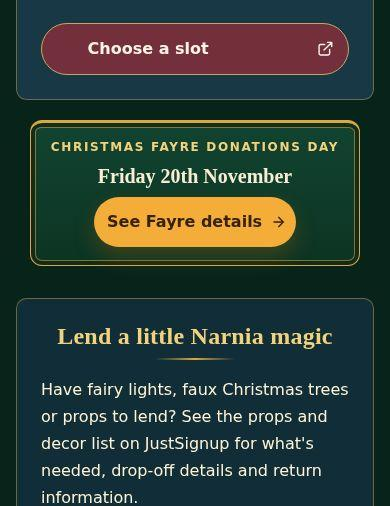
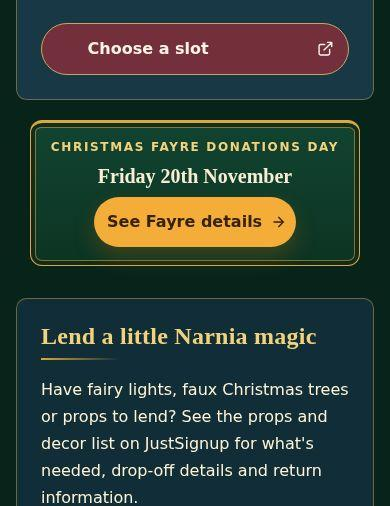
[CF-Pages-Skip] Align volunteering reading content and refresh evidence

Changed region(s): [[0.0923, 0.6225, 0.8615, 0.7115]]

diff --git a/tests/e2e/donations-notice-size.spec.ts b/tests/e2e/donations-notice-size.spec.ts
@@ -9,3 +9,8 @@ for(const route of['/events/christmas-fayre-2026/','/christmas-fayre-volunteerin
  }
  if(width>=1280&&scale===1)expect(r.width).toBeLessThan(600);
 });
+for(const width of[390,768,1024,1280,1440,1920])test(`volunteering reading headings ${width}`,async({page})=>{
+ await page.setViewportSize({width,height:1000});await page.goto('/christmas-fayre-volunteering/');
+ const align=await page.locator('.fayre-volunteer__intro,.fayre-volunteer__closing h2,.fayre-volunteer__loan h2').evaluateAll(es=>es.map(e=>getComputedStyle(e).textAlign));expect(new Set(align)).toEqual(new Set(['left']));
+ const edges=await page.locator('.narnia-landscape,.fayre-volunteer__intro,.fayre-volunteer__grid,.fayre-volunteer__closing').evaluateAll(es=>es.map(e=>{const r=e.getBoundingClientRect();return{left:r.left,right:r.right}}));for(const edge of edges.slice(1)){expect(Math.abs(edge.left-edges[0].left)).toBeLessThan(1);expect(Math.abs(edge.right-edges[0].right)).toBeLessThan(1)}
+});

diff --git a/docs/audits/donations-notice-2026-11-12/README.md b/docs/audits/donations-notice-2026-11-12/README.md
@@ -1,5 +1,9 @@
 # Compact Donations Day notice, 12 November 2026
 
-Local screenshots of the standalone notice on the volunteering page. No hosted preview generated. The short date card sizes to its content, remains centred, and wraps within phone gutters. At normal desktop text it is approximately 333px wide rather than stretching across a 1200px container. At enlarged text it grows naturally. Its button reserves scalable arrow space. The existing integrated homepage notice keeps its width and visual treatment.
+Current local screenshots, replacing earlier mixed-heading-alignment evidence. No hosted preview generated.
 
-Checked at 320, 390, 768, 1280 and 1920px with normal and 200% text, with 54 browser checks for fit, centring, button clearance and expiry, plus build, type check and 181 content tests. No content-order, wording or destination changes. The separate Fayre reading-layout PR removes the duplicate short notice from that page, leaving the full donation section directly below the event facts.
+The standalone date card sizes to its content and stays centred within the same outer page container. It is about 333px wide at normal desktop text rather than stretching across a 1200px container. At enlarged text it grows naturally and wraps inside phone gutters. Its button reserves scalable arrow space. The integrated Home notice keeps its existing width and centred treatment.
+
+Volunteering intro, props heading and questions heading now follow the left-aligned reading system. The poster and short date card remain intentionally centred. Activity cards retain left headings and body text.
+
+Checked notice fit at 320, 390, 768, 1280 and 1920px with normal and 200% text, with 54 browser checks plus six new page-edge and heading-alignment checks at 390, 768, 1024, 1280, 1440 and 1920px. Build, type check and 181 content checks passed. No wording or destinations changed. The separate Fayre content/order PR removes the duplicate short notice from the event page.
